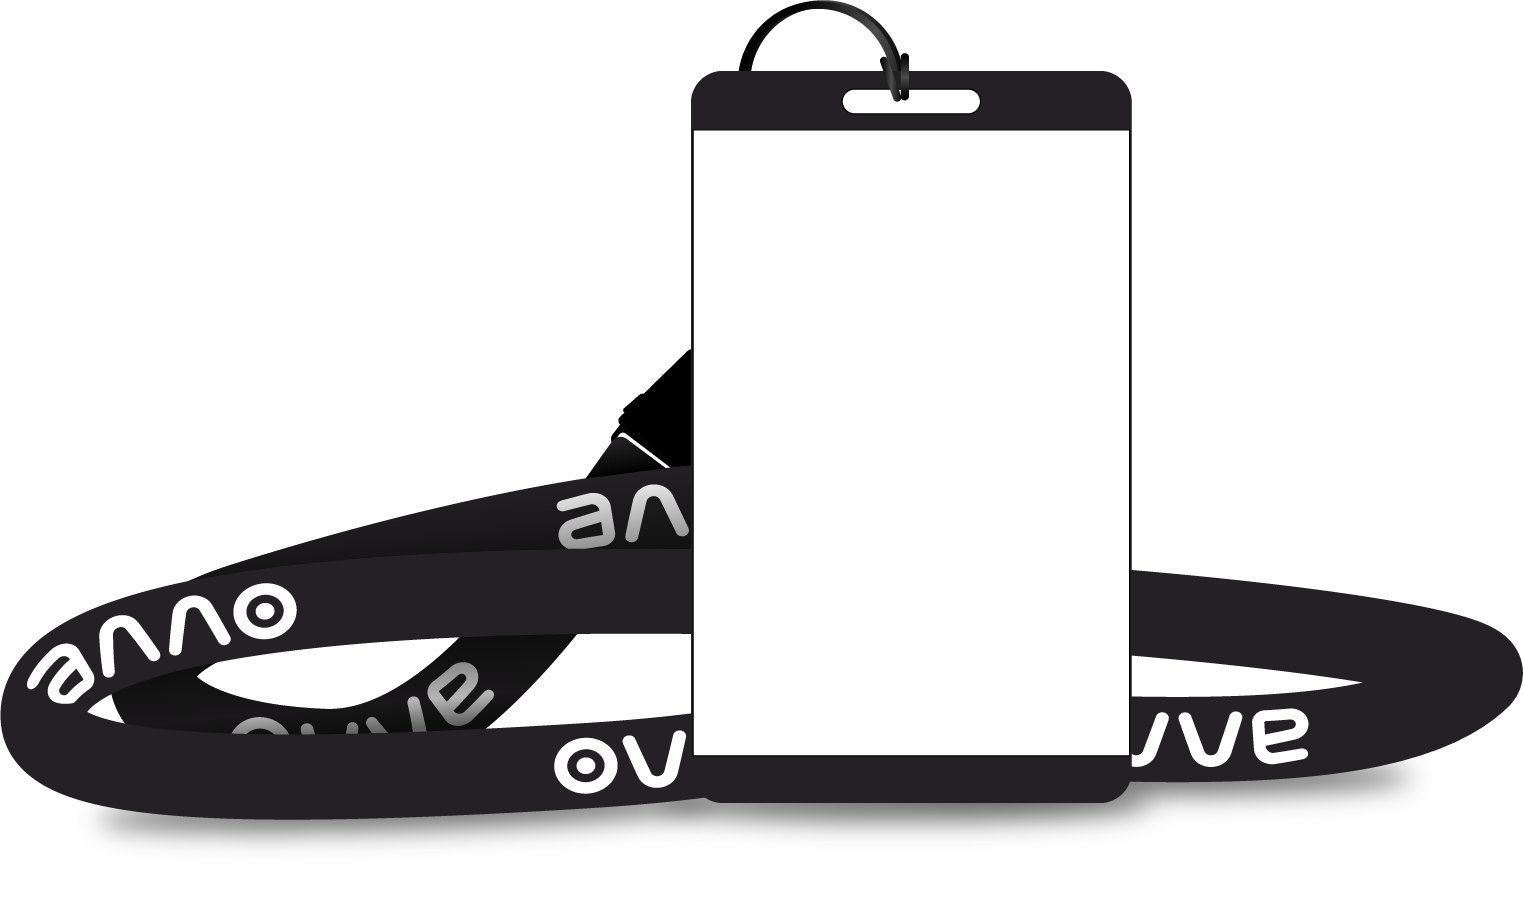
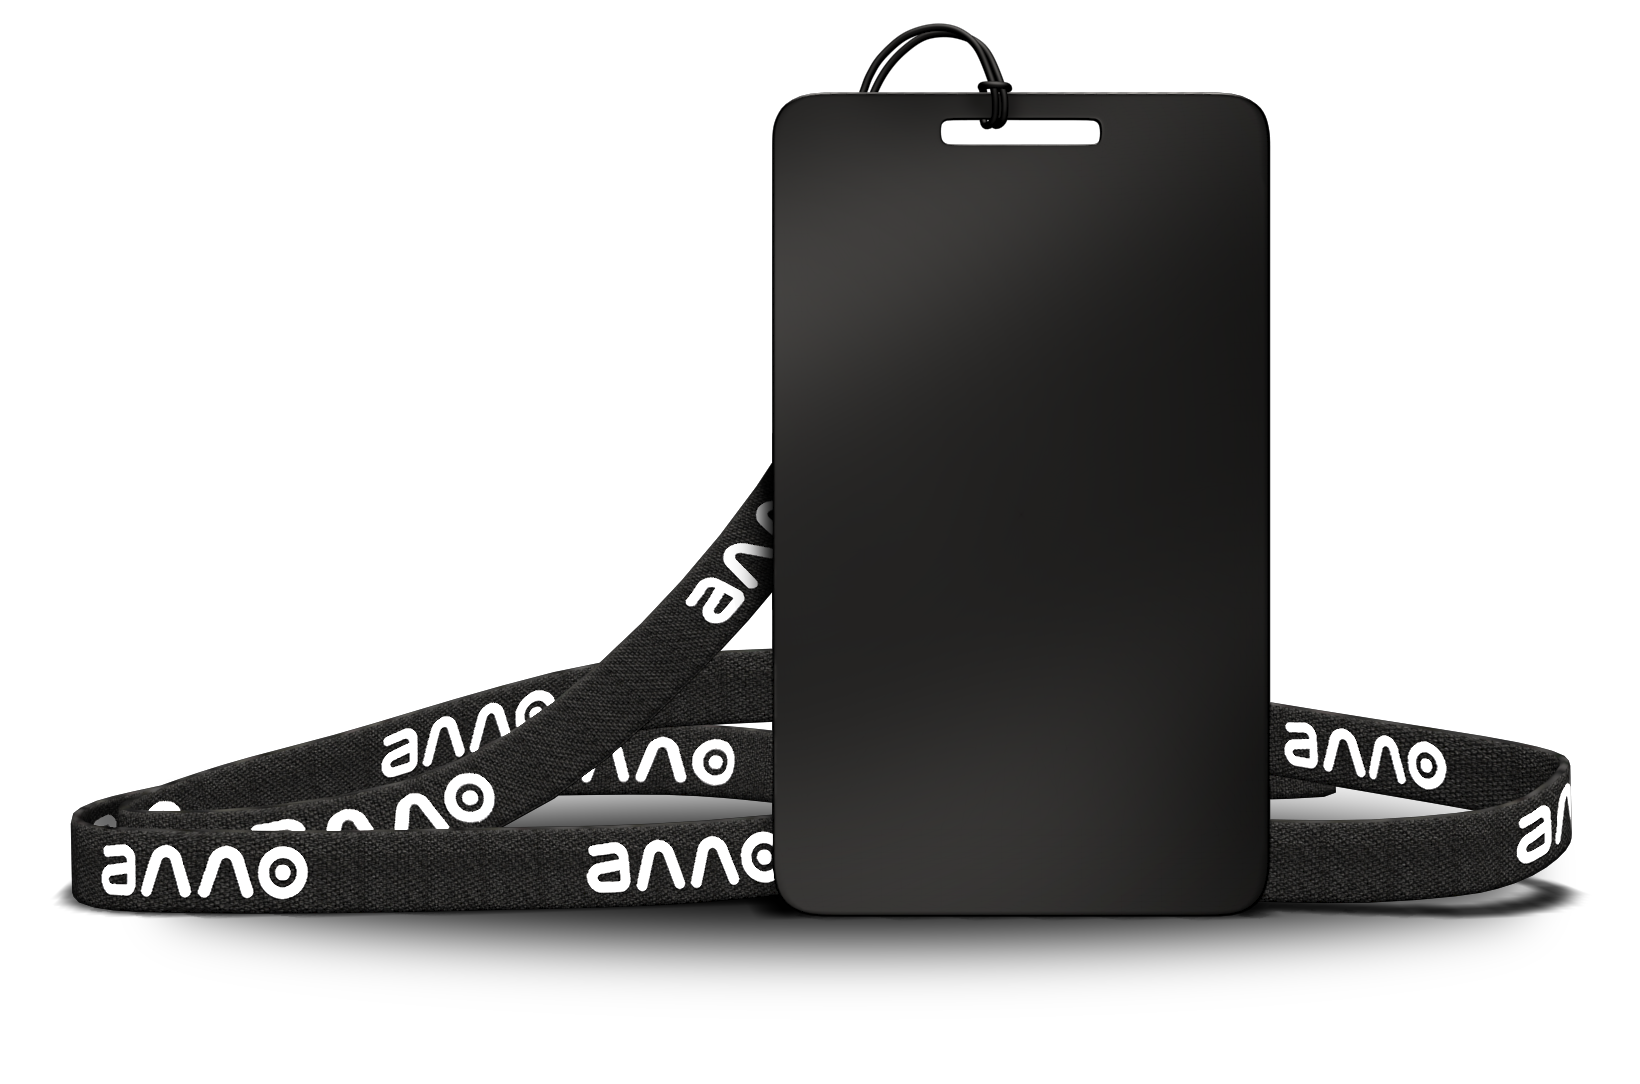
1

diff --git a/HTML/badge-creator-2_0.html b/HTML/badge-creator-2_0.html
@@ -97,7 +97,7 @@
           </form>
         </div>
         <div class="maket">
-          <img class="maket-img" src="../img/maket.png" alt="" srcset="" />
+          <img class="maket-img" src="../img/12.png" alt="" srcset="" />
         </div>
       </section>
     </div>
